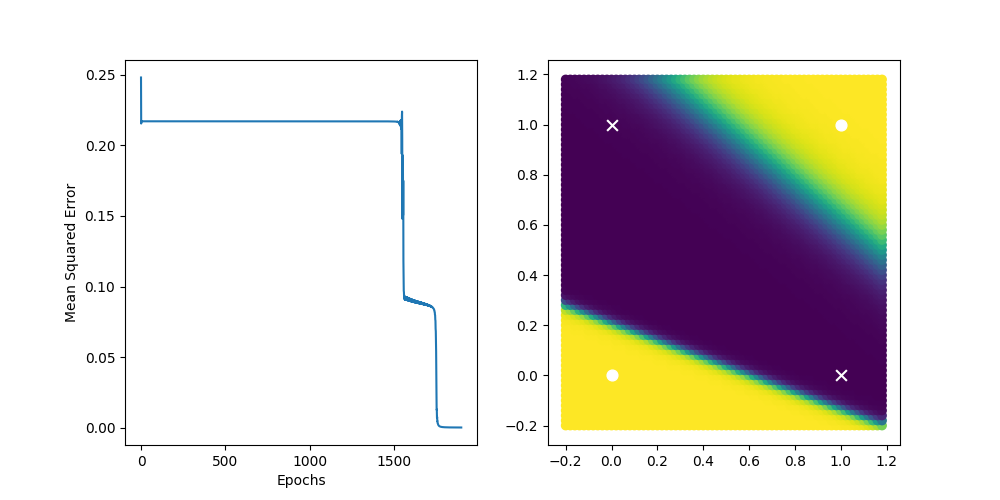
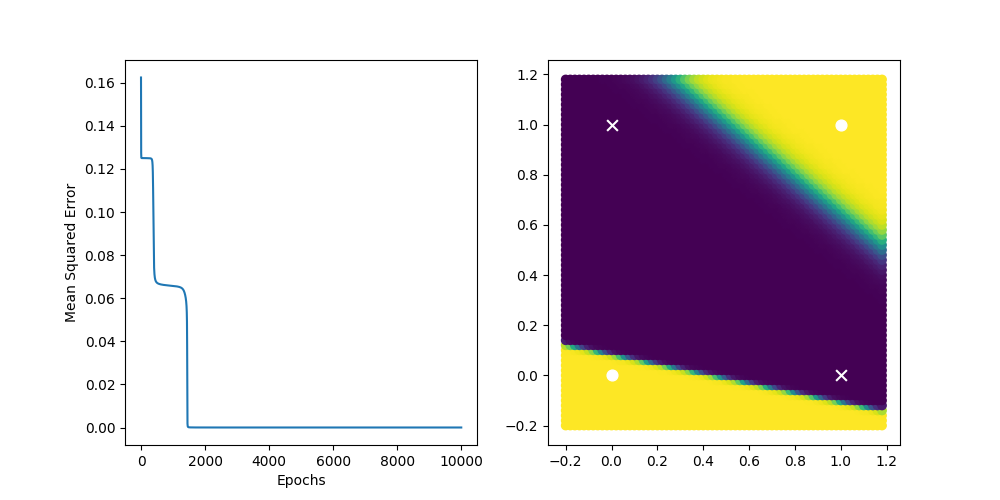
changed shape of b1

diff --git a/XOR_and_XNOR_Neural_Network/XNOR_CrossEntropy.py b/XOR_and_XNOR_Neural_Network/XNOR_CrossEntropy.py
@@ -7,7 +7,7 @@ Y=np.array([[1,0,0,1]])
 
 
 
-b1=np.random.random()
+b1=np.random.random((2,1))
 b2=np.random.random()
 
 def sigmoidgrad(A):
@@ -31,9 +31,9 @@ def forward(X,theta1,theta2,b1,b2):
 
 ###Back Propagation###
 
-lr=3;
+lr=1;
 mse=[]
-for i in range(1900):
+for i in range(10000):
    
     a1, z1, a2, z2, hyp = forward(X, theta1, theta2,b1,b2)
     dw2=a2.dot((hyp-Y).T)
@@ -49,7 +49,8 @@ for i in range(1900):
 
     theta1 -= lr*dw1
     theta2 -= lr*dw2
-    b1 -= lr*np.sum(db1)
+    
+    b1 -= lr*np.sum(db1,axis=1).reshape((2,1))
     b2 -= lr*np.sum(db2)
     
     
